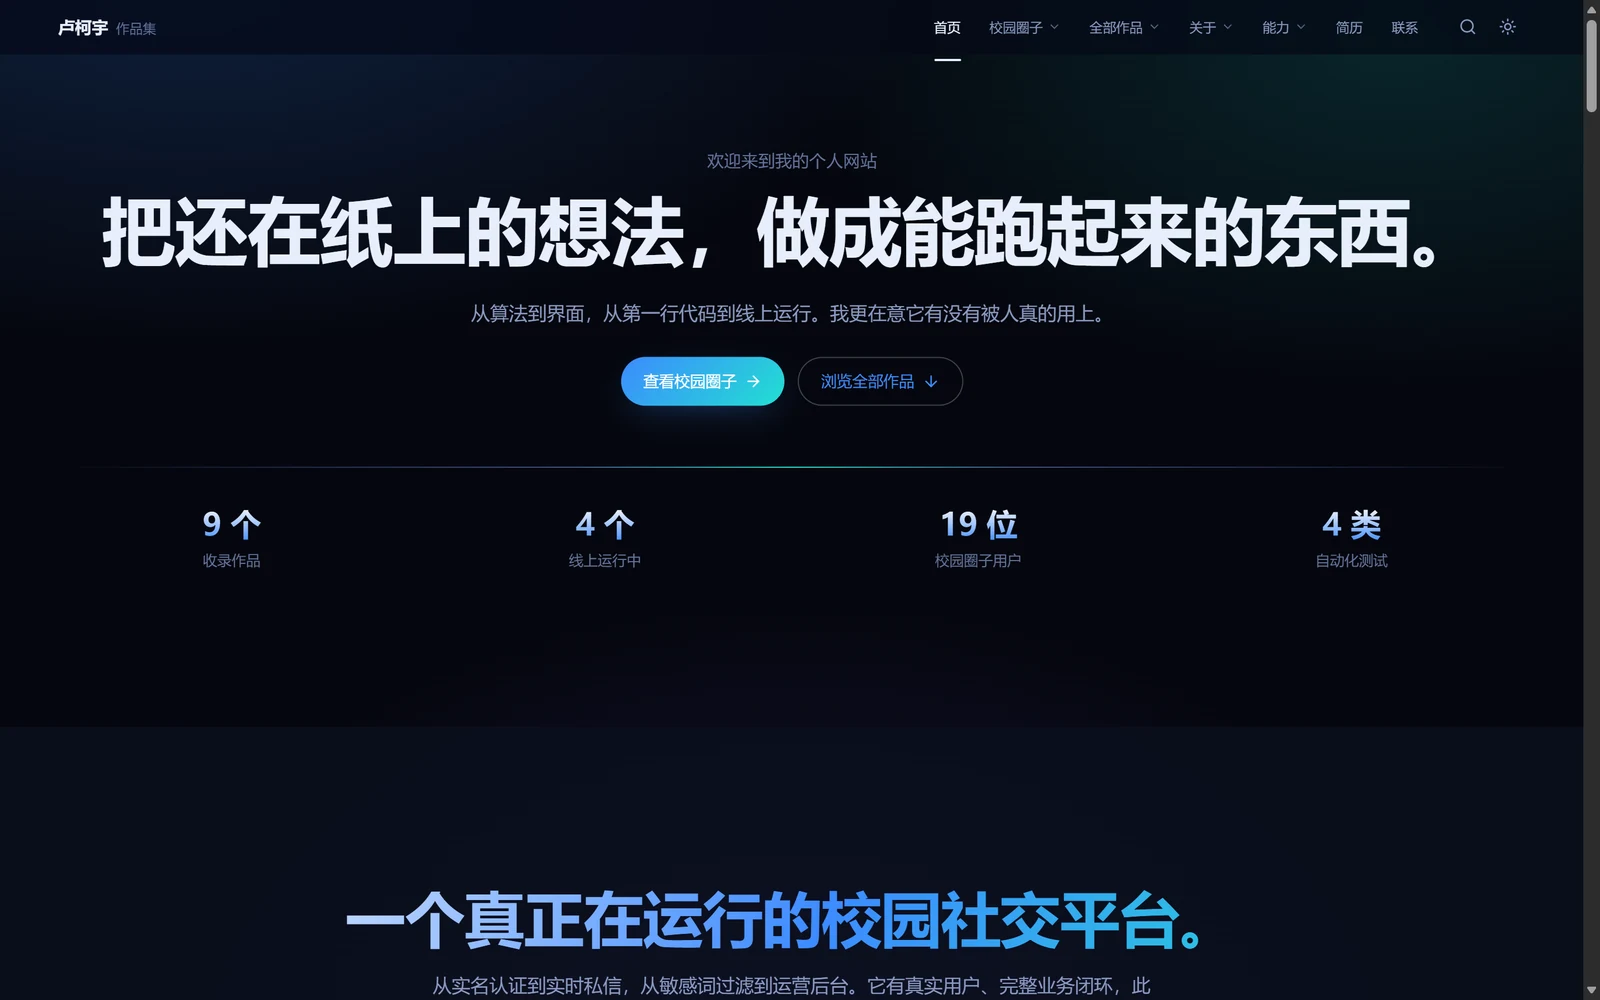
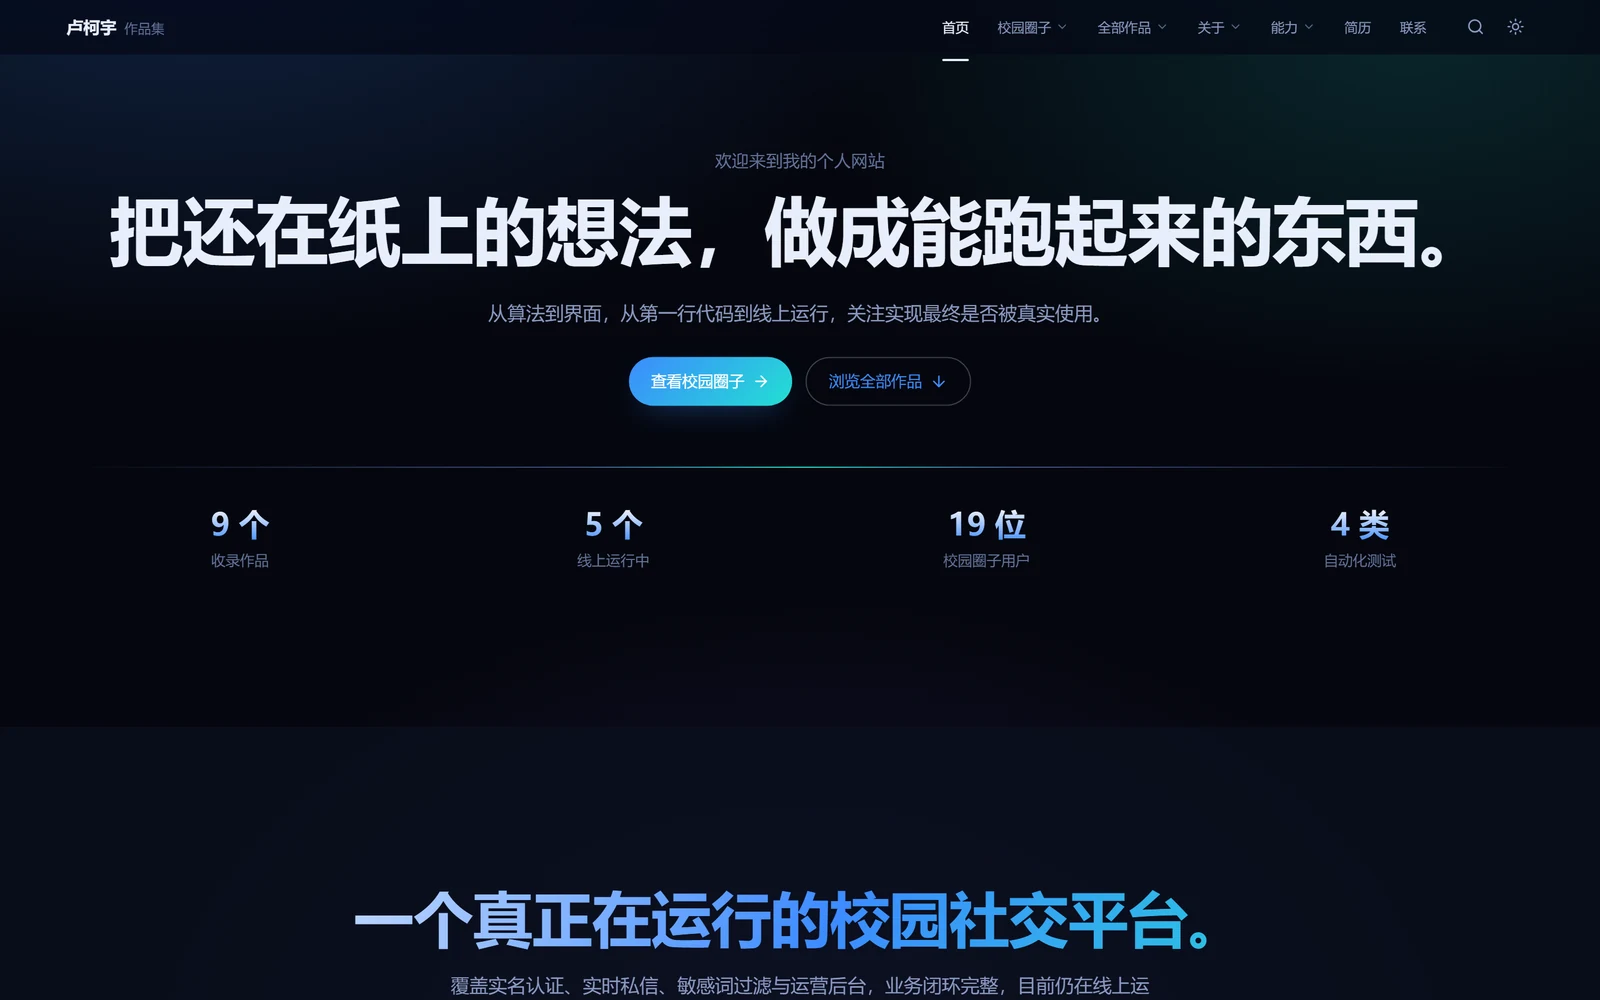
README 配图重抓一遍，顺手补上配图存在性断言

diff --git a/README.md b/README.md
@@ -144,7 +144,7 @@ curl -o /dev/null -w "%{http_code}\n" --resolve github.com:443:<IP> --noproxy '*
 
 截图源图放 `media-src/`（PNG），由 `scripts/optimize-images.py` 统一转成 WebP 写到 `public/media/`，产物里不留 PNG。整站图片从 14.6MB 压到 1.9MB。
 
-README 配图单独一条链路：`scripts/shoot-docs.mjs` 抓线上界面，`scripts/make-docs-images.py` 压成 WebP（`docs/images/`，5 张 444KB）。抓的是线上而不是本地构建——README 是给别人看的，展示的应该是访客实际打开的样子。
+README 配图单独一条链路：`scripts/shoot-docs.mjs` 抓线上界面，`scripts/make-docs-images.py` 压成 WebP（`docs/images/`，5 张 472KB）。抓的是线上而不是本地构建——README 是给别人看的，展示的应该是访客实际打开的样子。
 
 ## 简历
 
@@ -160,12 +160,14 @@ PDF 是最终版，放在 `public/media/resume/lukeyu-resume.pdf`；页面上那
 
 所以 `smoke-render.mjs` 里另有一组字段契约断言，放在**渲染之前**跑：先确认 `resume` 上被 `main.jsx` 用到的每个字段都存在，再去渲染。顺序很关键——契约断言放在渲染之后的话，字段缺失时脚本已经跳进 catch 了，后面的断言一条都跑不到。
 
+**README 引用的配图也要断言存在**。这类坏图在本地和线上都看不出来：页面照跑，测试照过，只有真的打开 README 才发现图裂了。所以断言会扫一遍 README 里所有 `docs/images/*.webp`，逐个确认文件在仓库里——同样放在渲染之前，渲染崩了也要照样报出来。
+
 ## 验证
 
 四个 SSR 冒烟脚本。在 Node 侧用 `react-dom/server` 把组件真渲染成 HTML 再断言，不依赖浏览器。
 
 ```bash
-node scripts/smoke-render.mjs      # 页面渲染、文案、导航、数据结构契约（146 条）
+node scripts/smoke-render.mjs      # 页面渲染、文案、导航、数据结构契约（147 条）
 node scripts/smoke-nav.mjs         # 导航下拉：SSR 结构 + 数据 + 样式契约（75 条）
 node scripts/smoke-lightbox.mjs    # 图片灯箱结构与交互契约（43 条）
 node scripts/smoke-backtotop.mjs   # 回到顶部按钮显隐逻辑（31 条）
